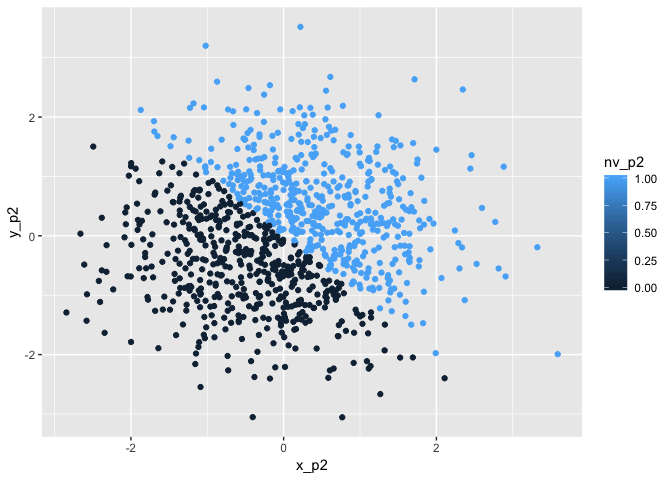
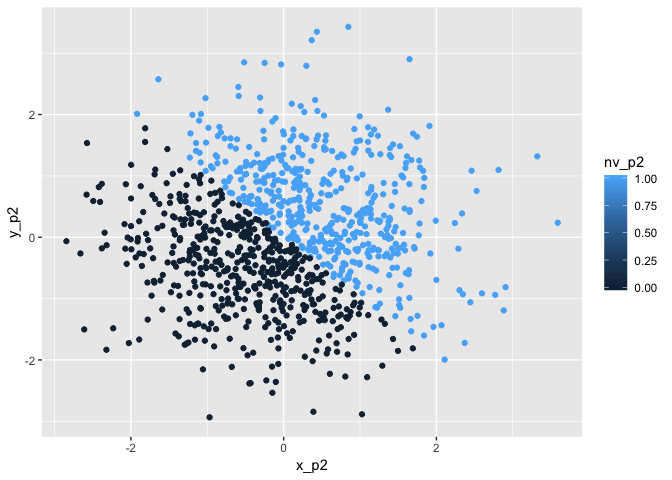
improve answers

diff --git a/p8105_hw1_xl2836.md b/p8105_hw1_xl2836.md
@@ -22,28 +22,30 @@ First, I create a data frame comprised of:
 set.seed(13)
 rs_p1 = runif(10,0,5)     # create random_sample
 
-lv_p1 = as.logical(ifelse(rs_p1 > 2, 1, 0))   # create logical vector
+lv_p1 = rs_p1 > 2   # create logical vector
 
 cv_p1 = c("A", "N", "A", "P", "P", "L", "E", "A", "N", "D")    # create character vector
 
 fv_p1 = factor(c("A", "N", "A", "P", "P", "L", "E", "A", "N", "D"))      # create factor vector
 
-df_p1 = data.frame(rs_p1, lv_p1, cv_p1, fv_p1)   # create data frame
+df_p1 = tibble(rs_p1, lv_p1, cv_p1, fv_p1)   # create data frame
 
 df_p1  # show data frame
 ```
 
-    ##         rs_p1 lv_p1 cv_p1 fv_p1
-    ## 1  3.55161223  TRUE     A     A
-    ## 2  1.23068651 FALSE     N     N
-    ## 3  1.94817222 FALSE     A     A
-    ## 4  0.45691836 FALSE     P     P
-    ## 5  4.81032272  TRUE     P     P
-    ## 6  0.05466665 FALSE     L     L
-    ## 7  2.87147589  TRUE     E     E
-    ## 8  3.82198995  TRUE     A     A
-    ## 9  4.36691155  TRUE     N     N
-    ## 10 0.20531677 FALSE     D     D
+    ## # A tibble: 10 x 4
+    ##     rs_p1 lv_p1 cv_p1 fv_p1
+    ##     <dbl> <lgl> <chr> <fct>
+    ##  1 3.55   TRUE  A     A    
+    ##  2 1.23   FALSE N     N    
+    ##  3 1.95   FALSE A     A    
+    ##  4 0.457  FALSE P     P    
+    ##  5 4.81   TRUE  P     P    
+    ##  6 0.0547 FALSE L     L    
+    ##  7 2.87   TRUE  E     E    
+    ##  8 3.82   TRUE  A     A    
+    ##  9 4.37   TRUE  N     N    
+    ## 10 0.205  FALSE D     D
 
 The data frame df\_p1 is shown above.
 
@@ -81,11 +83,11 @@ mean(fv_p1)   #get the mean of fv_p1
 
     ## [1] NA
 
-I found out that only the mean of the random sample and the logical vector can be calculated. As only numbers have a mean, I cannot get the mean of the character vector or the factor vector. Hoever, when I get the mean of the logical vector, as R translate "TRUE" to 1 and "FALSE" to 0, I can get one.
+I found out that only the mean of the random sample and the logical vector can be calculated. As only numbers have a mean, I cannot get the mean of the character vector or the factor vector. Hoever, when I get the mean of the logical vector, as R convert "TRUE" to 1 and "FALSE" to 0, I can get one.
 
 ### Convert variables
 
-I try to apply the `as.numeric` function to the logical, character, and factor variables, but only show the chunk without output. So only the R code can be seen. But if I run the R code, I found out that the factor vector and the logical vector can be translated to numeric vectors. Each element in factor vector was translated to the order of that level. While in logical vector, The "TRUE" was translated to 1 and the "FALSE" was translated to 0. The character vector canot be translated to any number, so the result is combination of "NA".
+I try to apply the `as.numeric` function to the logical, character, and factor variables, but only show the chunk without output. So only the R code can be seen. But if I run the R code, I found out that the factor vector and the logical vector can be converted to numeric vectors. Each element in factor vector was converted to the order of that level. While in logical vector, The "TRUE" was converted to 1 and the "FALSE" was converted to 0. The character vector canot be converted to any number, so the result is combination of "NA".
 
 ``` r
 as.numeric(lv_p1)  
@@ -95,29 +97,31 @@ as.numeric(cv_p1)
 as.numeric(fv_p1)
 ```
 
-Then, I try to convert character variable from character to factor to numeric and convert factor variable from factor to character to numeric.
+Then, I try to convert character variable from character to factor to numeric and convert factor variable from factor to character to numeric. I foud out that the character variable was converted to factor and to numeric successfuly, as character can be converted to factor and factor can be converted to numeric. However, character cannot be converted to numeric as shown above. So factor variable was converted to character but fail to convert to numeric.
 
 ``` r
-as.factor(cv_p1)
+cv_p1_fac = as.factor(cv_p1)    # first convert to factor
+cv_p1_fac
 ```
 
     ##  [1] A N A P P L E A N D
     ## Levels: A D E L N P
 
 ``` r
-as.numeric(as.factor(cv_p1))
+as.numeric(cv_p1_fac)    # then convert to numeric
 ```
 
     ##  [1] 1 5 1 6 6 4 3 1 5 2
 
 ``` r
-as.character(fv_p1)
+fv_p1_cha = as.character(fv_p1)    # first convert to character
+fv_p1_cha
 ```
 
     ##  [1] "A" "N" "A" "P" "P" "L" "E" "A" "N" "D"
 
 ``` r
-as.numeric(as.character(fv_p1))
+as.numeric(fv_p1_cha)    # then convert to numeric
 ```
 
     ## Warning: NAs introduced by coercion
@@ -143,28 +147,30 @@ First, I create a data frame comprised of:
 
 ``` r
 set.seed(13)
+
 x_p2 = rnorm(1000)       # create x
 
-set.seed(3)
 y_p2 = rnorm(1000)       # create y
 
-lv_p2 = as.logical(ifelse(x_p2 + y_p2 > 0, 1, 0))   # create logical vector
+lv_p2 = x_p2 + y_p2 > 0   # create logical vector
 
 nv_p2 = as.numeric(lv_p2)     # create numeric vector
 
 fv_p2 = as.factor(lv_p2)    # create factor vector
 
-df_p2 = data.frame(x_p2, y_p2, lv_p2, nv_p2, fv_p2)   # create data frame
+df_p2 = tibble(x_p2, y_p2, lv_p2, nv_p2, fv_p2)   # create data frame
 head(df_p2)      #show first few lines of data frame
 ```
 
-    ##         x_p2        y_p2 lv_p2 nv_p2 fv_p2
-    ## 1  0.5543269 -0.96193342 FALSE     0 FALSE
-    ## 2 -0.2802719 -0.29252572 FALSE     0 FALSE
-    ## 3  1.7751634  0.25878822  TRUE     1  TRUE
-    ## 4  0.1873201 -1.15213189 FALSE     0 FALSE
-    ## 5  1.1425261  0.19578283  TRUE     1  TRUE
-    ## 6  0.4155261  0.03012394  TRUE     1  TRUE
+    ## # A tibble: 6 x 5
+    ##     x_p2    y_p2 lv_p2 nv_p2 fv_p2
+    ##    <dbl>   <dbl> <lgl> <dbl> <fct>
+    ## 1  0.554 -0.587  FALSE     0 FALSE
+    ## 2 -0.280  1.12   TRUE      1 TRUE 
+    ## 3  1.78   1.25   TRUE      1 TRUE 
+    ## 4  0.187 -0.0505 TRUE      1 TRUE 
+    ## 5  1.14   0.377  TRUE      1 TRUE 
+    ## 6  0.416 -1.22   FALSE     0 FALSE
 
 ### Short discription
 
@@ -172,7 +178,7 @@ The observations number of data frame df\_p2 is 1000 and the variables number of
 
 The mean of x is -0.0031129 and the median of x is -0.0096804.
 
-The proportion of cases for which the logical vector is TRUE is 0.509
+The proportion of cases for which the logical vector is TRUE is 0.496
 
 ### Print scatterplots
 
@@ -205,7 +211,7 @@ pic3_p2
 
 ![](p8105_hw1_xl2836_files/figure-markdown_github/make_pic3_p2-1.png)
 
-Even though these three pictures both
+Even though these three pictures look the same except for difference in color, the logic behind then are different. The first and third pictures' color points are decieded by logical and factor vectors, so the color points in these two pictures are seperated into two groups, thus they both show in two different colors. However, second picture's color points use the numeric and factor variables, so they are shown in different color shades which represent different numbers.
 
 At last, I use `ggsave` to export my first scatterplot to my project directory.
 
